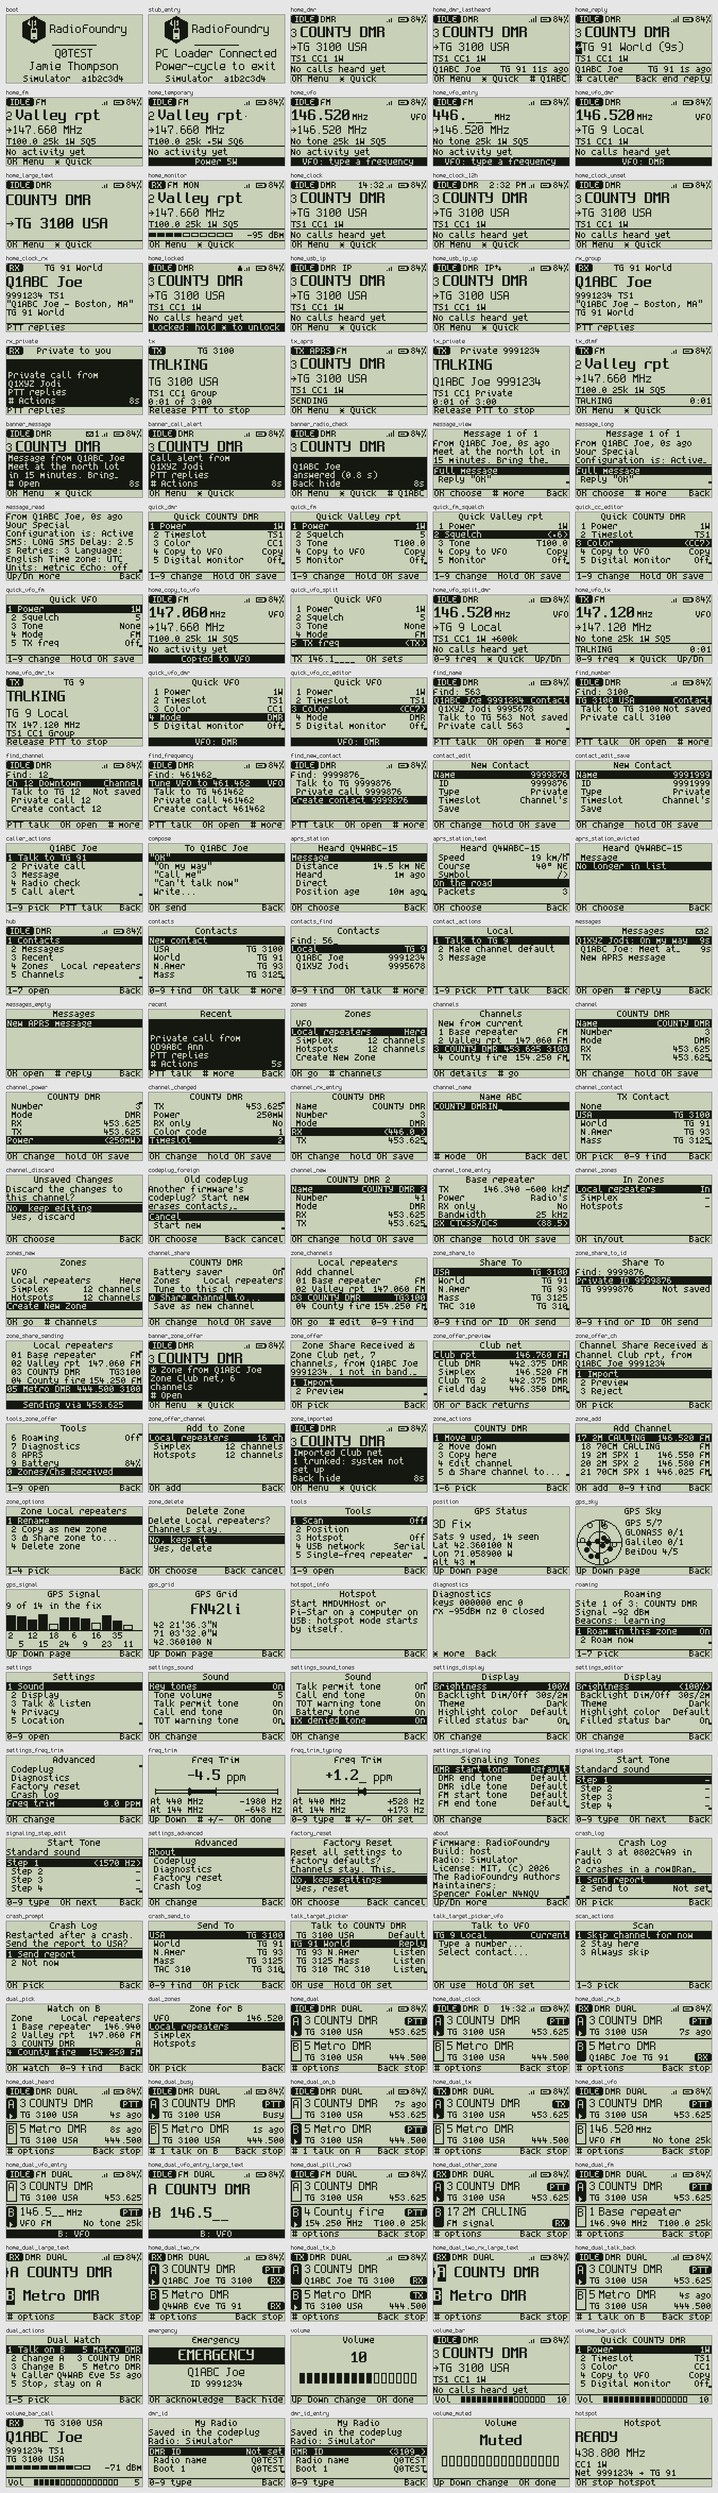
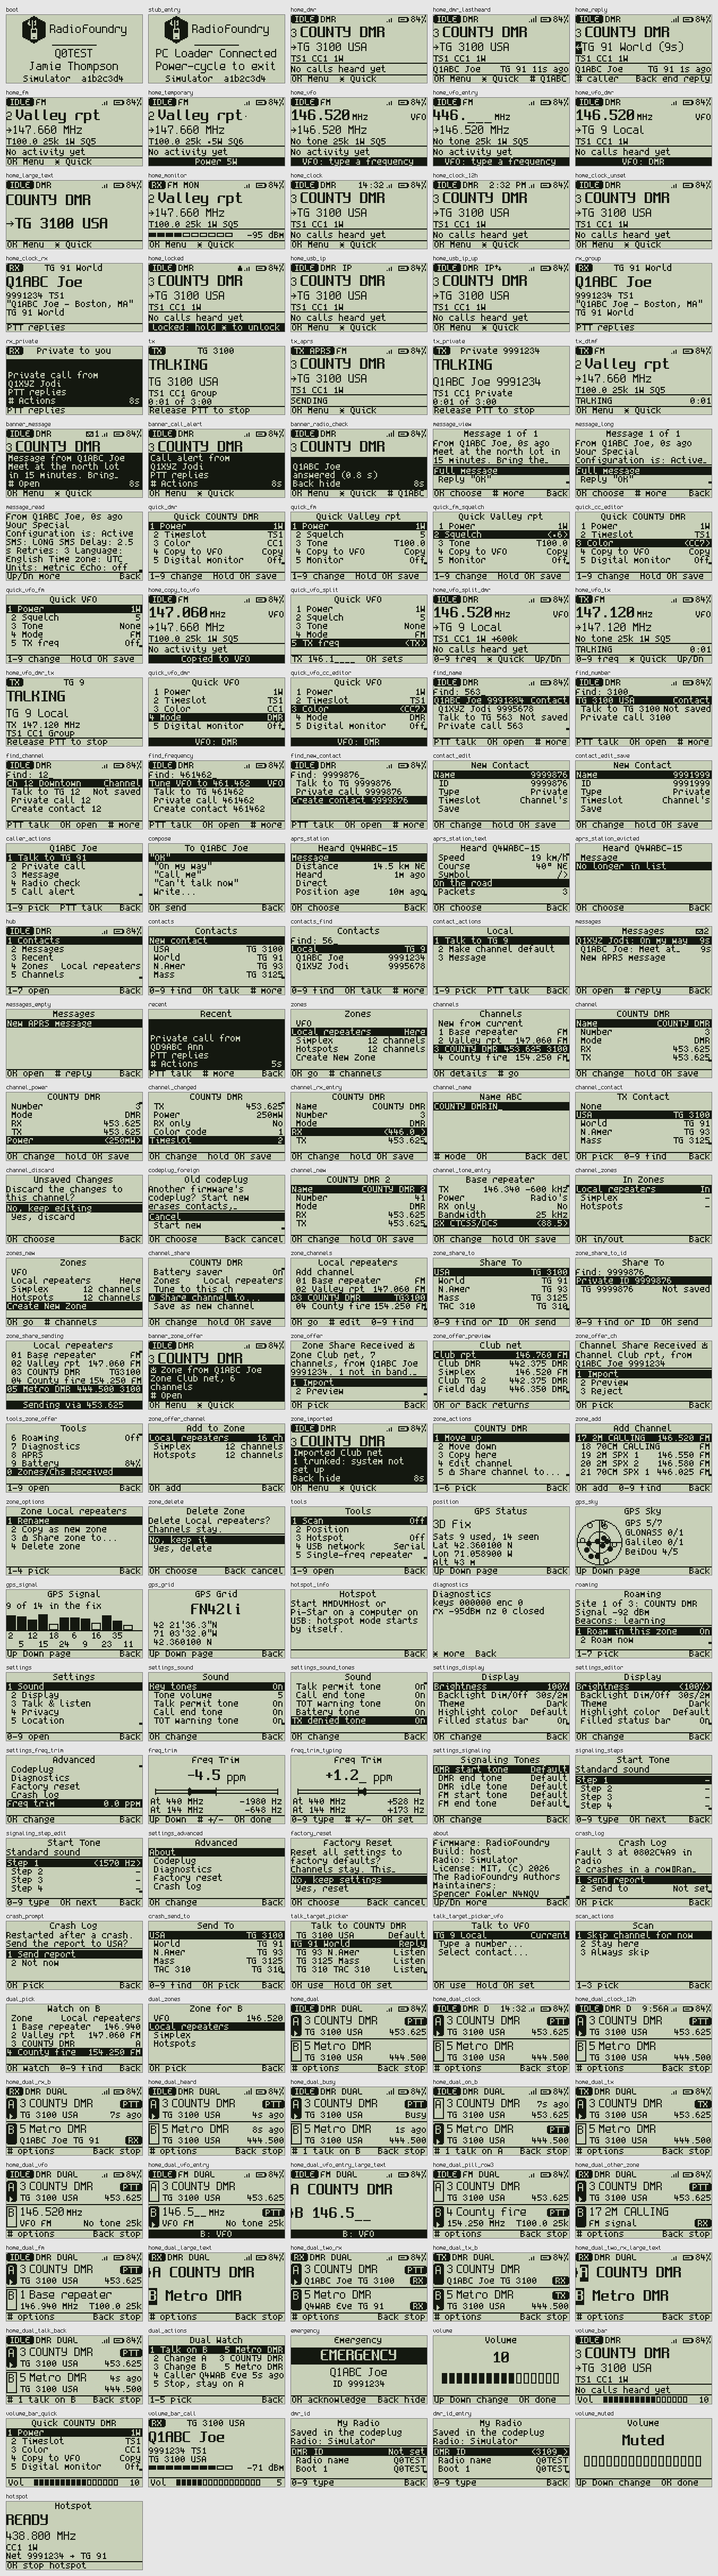
UI: the strip's time in the smallest font where the usual one does not fit
On the 240 px class's big font (DM-32UV) the strip has no room for DUAL or D
beside the time: the next face down is only 2 px smaller, so no step of the
fallback chain fit. Add the display's smallest face (ui_layout_t.micro, the
6x12 or 5x8 one) as a last step for the time: the word and the short time in
it, then D and it, before DUAL alone. It is used only where it is smaller than
the strip's face. The 240x320 class with its 8 px face keeps DUAL and the time
at full size.

Gallery: home_dual_clock changes at 240x320i10x5 and 160x120i5; a 12 hour
dual watch scene (home_dual_clock_12h) is added at every size.

diff --git a/core/ui/ui_screens.c b/core/ui/ui_screens.c
@@ -181,6 +181,9 @@ void ui_layout_init(void)
 	} else {
 		L->tiny = &font_5x8; L->small = &font_5x8; L->medium = f6; L->large = f8;
 	}
+#if CONFIG_CLOCK
+	L->micro = L->tiny->h > f6->h ? f6 : L->tiny;	// one size below the strip's, on the 240 px class's big font too
+#endif
 
 #if CONFIG_LANG_ZH
 	// A CJK character is 16 px tall (core/ui/cjk_font.h), so a line that may hold Chinese needs a 16 px font. Where the
@@ -421,7 +424,7 @@ static int draw_top_as(const radio_view_t *v, radio_state_t st, const ui_state_t
 	// word and the status icons leave (a space either side), and nothing while the clock is off or was never set.
 	// The 12 hour form has a short one (2:32P) for a display with no room for 2:32 PM
 #if CONFIG_CLOCK
-	int tw, tws;		// each form's width and the space before it; 0 = no time to draw
+	int tw, tws, twt;	// each form's width and the space before it; 0 = no time to draw
 	char hm[10], hms[10];
 	hm[0] = hms[0] = 0;
 	if (!merged && s->clock_mode != 0 && s->clock_hm != UI_CLOCK_NONE) {
@@ -432,6 +435,9 @@ static int draw_top_as(const radio_view_t *v, radio_state_t st, const ui_state_t
 	}
 	tw = hm[0] ? gfx_text_width(f, hm) + f->w : 0;
 	tws = hms[0] ? gfx_text_width(f, hms) + f->w : 0;
+	// The last resort: the shortest form in the smallest font, where that is smaller than the strip's
+	const char *hmt = hms[0] ? hms : hm;
+	twt = hmt[0] && L->micro->h < f->h ? gfx_text_width(L->micro, hmt) + f->w : 0;
 #endif
 	// Left side: the mode, and one mode word when there is room for it with a space either side. In dual watch the
 	// mode is the selected channel's (the tuned one alternates) and the word is DUAL
@@ -444,8 +450,8 @@ static int draw_top_as(const radio_view_t *v, radio_state_t st, const ui_state_t
 		mw = "FM";
 	int lx = gfx_text(f, x, ty, mw, sfg);
 #if CONFIG_DUAL_WATCH
-	// DUAL gives way to the time. In this order: the word and the time, the word and the short time, its first letter
-	// and the time, its first letter and the short time (a fit problem is fixed with shorter text,
+	// DUAL gives way to the time. In this order: the word and the time, the word and the short time, the word and
+	// the time in the smallest font, its first letter and each of those three (a fit problem is fixed with shorter text,
 	// docs/ux/principles.md 5), else the word alone where there is no room for any time
 	const char *dw = NULL;
 	if (s->dual.on && !v->aprs_tx) {
@@ -456,9 +462,13 @@ static int draw_top_as(const radio_view_t *v, radio_state_t st, const ui_state_t
 			dw = dword;
 		else if (tws && strip_fits(f, lx, rx - tws, dword))
 			dw = dword;
+		else if (twt && strip_fits(f, lx, rx - twt, dword))
+			dw = dword;
 		else if (tw && strip_fits(f, lx, rx - tw, dinit))
 			dw = dinit;
 		else if (tws && strip_fits(f, lx, rx - tws, dinit))
+			dw = dinit;
+		else if (twt && strip_fits(f, lx, rx - twt, dinit))
 			dw = dinit;
 		else
 #endif
@@ -509,6 +519,8 @@ static int draw_top_as(const radio_view_t *v, radio_state_t st, const ui_state_t
 		gfx_text(f, rx - tw + f->w - f->w / 2, ty, hm, sfg);
 	else if (tws && lx + tws + f->w <= rx)
 		gfx_text(f, rx - tws + f->w - f->w / 2, ty, hms, sfg);
+	else if (twt && lx + twt + f->w <= rx)
+		gfx_text(L->micro, rx - twt + f->w - f->w / 2, ty + (f->h - L->micro->h) / 2, hmt, sfg);	// centered on the cell
 #endif
 	if (!titled)
 		return L->strip_h;

diff --git a/tests/host/uiSim.c b/tests/host/uiSim.c
@@ -183,7 +183,8 @@ static const struct { const char *name, *script; } gallery[] = {
 	{ "dual_zones", "quick 7 ctx 3 up up up up ok" },
 	{ "home_dual", "quick 7 ctx 3 5 ok wait:3000" },
 #if CONFIG_CLOCK
-	{ "home_dual_clock", "quick 7 ctx 3 5 ok wait:3000 clock:24h,14:32,-480" },	// no room beside DUAL: no time
+	{ "home_dual_clock", "quick 7 ctx 3 5 ok wait:3000 clock:24h,14:32,-480" },	// DUAL gives way: D, the time in a small face
+	{ "home_dual_clock_12h", "quick 7 ctx 3 5 ok wait:3000 clock:12h,09:56,-480" },
 #endif
 	{ "home_dual_rx_b", "quick 7 ctx 3 5 ok wait:3000 tune:b call:9991234,91,g tune:a call:9997777,3100,g wait:4000 tune:b rx:9991234,91,g wait:2500" },
 	{ "home_dual_heard", "quick 7 ctx 3 5 ok wait:3000 tune:b call:9991234,91,g tune:a call:9997777,3100,g wait:4000" },

diff --git a/core/ui/ui_screens.h b/core/ui/ui_screens.h
@@ -163,6 +163,9 @@ bool ui_name_is_id(const char *name, uint32_t id, bool private_call);
 // Fonts and region positions for the current display, from gfx_width() / gfx_height()
 typedef struct {
 	const font_t *tiny, *small, *medium, *large;
+#if CONFIG_CLOCK
+	const font_t *micro;	// the smallest face of the display's set: the strip's time of day when no larger one fits
+#endif
 	int strip_h;
 	int zone_y;		// < 0: no zone line on this display
 	int channel_y, talk_y, chips_y;

diff --git a/docs/spec/radio-features.md b/docs/spec/radio-features.md
@@ -661,7 +661,7 @@ keeps a software clock (`core/clock/wallclock.c`) that follows it and shows it i
 | Source | The date and time of the latest position fix with a date (`ui_svc_fix_time`: the board GPS, or a host's NMEA), taken once per fix on the UI task. The clock then runs from the millisecond counter. A restart loses it until the next fix |
 | Settings > Display | **Clock**: Off (default), 24 hour, 12 hour. **Time zone**: one of the 38 UTC offsets in use, UTC-12 to UTC+14 (default UTC). Kept in `settings_t.clock_mode` and `utc_off_q` ([settings-store.md](settings-store.md)). No daylight saving rule: the user changes the offset |
 | Unknown time | Nothing is drawn while the clock is off or never set. The radio never shows a made-up time |
-| Status strip | Right-aligned beside the icons, in the room the mode, its word and the icons leave (a space either side), measured like the words. 12 hour has a short form, `2:32P`, where `2:32 PM` does not fit. In dual watch the order is `DUAL` and the time, `DUAL` and the short time, `D` and the time, `D` and the short time, then `DUAL` alone ([ui.md](ui.md), principle 5: a fit problem is fixed with shorter text first) |
+| Status strip | Right-aligned beside the icons, in the room the mode, its word and the icons leave (a space either side), measured like the words. 12 hour has a short form, `2:32P`, where `2:32 PM` does not fit. In dual watch the order is `DUAL` and the time, `DUAL` and the short time, `DUAL` and the short time in the display's smallest face (`ui_layout_t.micro`), `D` and each of those three, then `DUAL` alone ([ui.md](ui.md), principle 5: a fit problem is fixed with shorter text first). The smallest face is used only where it is smaller than the strip's, and on any strip where the time does not fit in the strip's own face |
 | Debug link | `ui.clock_mode ui.clock_hm ui.utc_off_min` in the `link` view section ([debuglink.md](debuglink.md) 3.7) |
 
 Some radios have a real-time clock, and some keep it running through power-off. `board.toml` `[hardware] clock`
